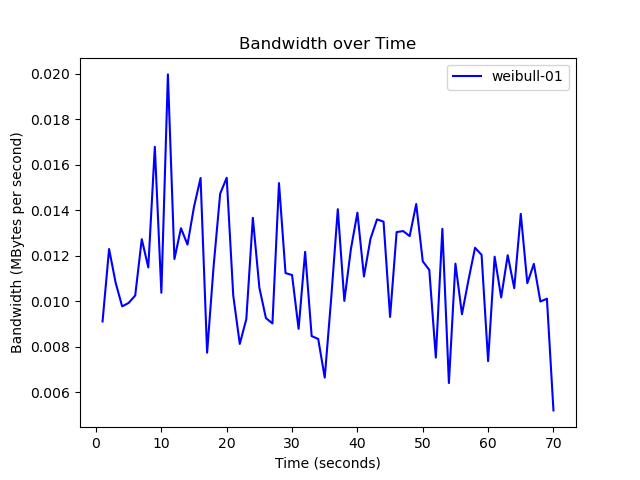
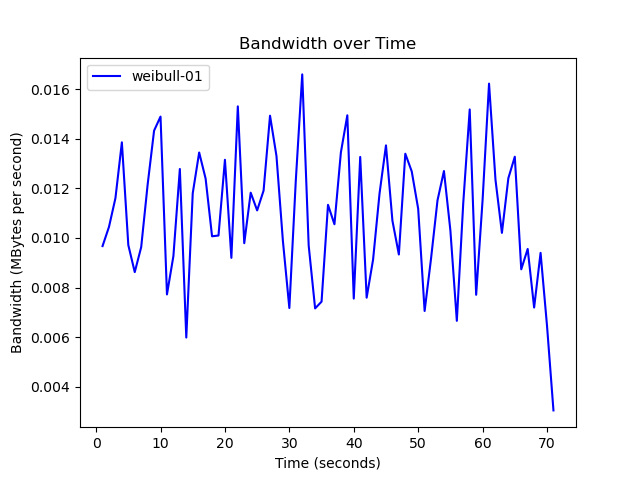
plots

diff --git a/Sources/trace-plot/Plotter.py b/Sources/trace-plot/Plotter.py
@@ -10,7 +10,7 @@ from Utils import Utils
 class Plotter:
 
     @staticmethod
-    def plot_interarrival_cdf(plot_data_list, out_dir, nickname=""):
+    def plot_inter_arrival_cdf(plot_data_list, out_dir, nickname=""):
         Utils.mkdir(out_dir)
         plt.clf()
 
@@ -25,11 +25,12 @@ class Plotter:
             # plot the CDF
             plt.plot(sorted_inter_arrival_times, ecdf, label=item.name, color=item.color)
 
+        plt.legend()
+        plt.grid(True)
         plt.title('Empirical CDF of Inter-Arrival Times')
         plt.xlabel('Inter-Arrival Time (seconds)')
         plt.ylabel('Cumulative Probability')
-        plt.legend()
-        plot_file = os.path.join(out_dir, f"InterArrivalCDF{nickname}.png")
+        plot_file = os.path.join(out_dir, f"InterArrivalCDF_{nickname}.png")
         plt.savefig(plot_file)
 
     @staticmethod
@@ -47,6 +48,7 @@ class Plotter:
             plt.plot(edges[:-1], hist, color=item.color, label=item.name)
 
         plt.legend()
+        plt.grid(True)
         plt.title('Inter-Arrival Time Distribution')
         plt.xlabel('Inter-Arrival Time (seconds)')
         plt.ylabel('Frequency')
@@ -73,11 +75,12 @@ class Plotter:
             plt.plot(time_slices, bandwidth/1e6, label=item.name, color=item.color)
 
         plt.legend()
+        plt.grid(True)
         title = 'Bandwidth over Time'
         plt.title(title)
         plt.xlabel('Time (seconds)')
         plt.ylabel('Bandwidth (MBytes per second)')
-        plot_file = os.path.join(out_dir, f"BandwidthMbps{nickname}.png")
+        plot_file = os.path.join(out_dir, f"BandwidthMbps_{nickname}.png")
         plt.savefig(plot_file)
 
     @staticmethod
@@ -98,15 +101,16 @@ class Plotter:
             plt.plot(time_slices, pps, label=item.name, color=item.color)
 
         plt.legend()
+        plt.grid(True)
         title = 'Packet Per Second'
         plt.title(title)
         plt.xlabel('Time (seconds)')
         plt.ylabel('Packet Per Second')
-        plot_file = os.path.join(out_dir, f"Pps{nickname}.png")
+        plot_file = os.path.join(out_dir, f"Pps_{nickname}.png")
         plt.savefig(plot_file)
 
     @staticmethod
-    def plot_wavelet_multiresolution_energy(plot_data_list, out_dir, number_of_scales=15):
+    def plot_wavelet_multiresolution_energy(plot_data_list, out_dir, number_of_scales=15, nickname=""):
         print("Practical Introduction to Multiresolution Analysis: ",
               "https://www.mathworks.com/help/wavelet/ug/practical-introduction-to-multiresolution-analysis.html")
         Utils.mkdir(out_dir)
@@ -128,13 +132,95 @@ class Plotter:
             # plot data
             plt.plot(scales, energy_values, marker='o', label=item.name, color=item.color)
 
+        plt.legend()
+        plt.grid(True)
         plt.xlabel('j = log2(time_scale) + 1, time_scale (ms)')
         plt.ylabel('log2(Energy(j))')
         plt.title('Wavelet Multiresolution Energy Analysis')
-        plt.grid(True)
-        plot_file = os.path.join(out_dir, "WaveletMultiresolutionEnergyAnalysis.png")
+        plot_file = os.path.join(out_dir, f"WaveletMultiresolutionEnergyAnalysis_{nickname}.png")
         plt.savefig(plot_file)
 
 
+    @staticmethod
+    def plot_flow_cdf(plot_data_list, out_dir, nickname=""):
+        Utils.mkdir(out_dir)
+        plt.clf()
 
+        for item in plot_data_list:
+
+            data = item.load(["arrival-times", "flowID"])
+
+            arrival_times = data["arrival-times"]
+            flow_ids = data["flowID"]
+
+            #  returns an array with the same size but with the greatest value so far for each position.
+            #  out[i] = max(in[i], in(i-1), ..., in(0))
+            cumulative_flows = np.maximum.accumulate(flow_ids)
+
+            plt.plot(arrival_times, cumulative_flows, label=item.name, color=item.color)
+
+        plt.legend()
+        plt.grid(True)
+        plt.xlabel("Time")
+        plt.ylabel("Cumulative Flow Count")
+        plt.title("Flow Cumulative Distribution")
+        plot_file = os.path.join(out_dir, f"FlowCumulativeDistribution_{nickname}.png")
+        plt.savefig(plot_file)
+
+    @staticmethod
+    def plot_bytes_cdf(plot_data_list, out_dir, nickname=""):
+        Utils.mkdir(out_dir)
+        plt.clf()
+
+        for item in plot_data_list:
+
+            data = item.load(["arrival-times", "pktSize"])
+
+            arrival_times = data["arrival-times"]
+            pkt_sizes = data["pktSize"]
+
+            # accumulate the packet sizes
+            #  out[i] = in[i] + in(i-1) +  ... + in(0))
+            accumulated_pkt_sizes = np.maximum.accumulate(pkt_sizes)
+
+            plt.plot(arrival_times, accumulated_pkt_sizes, label=item.name, color=item.color)
+
+        plt.legend()
+        plt.grid(True)
+        plt.xlabel("Time")
+        plt.ylabel("Cumulative Bytes Count")
+        plt.title("Bytes Cumulative Distribution")
+        plot_file = os.path.join(out_dir, f"BytesCumulativeDistribution_{nickname}.png")
+        plt.savefig(plot_file)
+
+    @staticmethod
+    def plot_wavelet_power_spectrum(plot_data_list, out_dir, nickname=""):
+        Utils.mkdir(out_dir)
+        plt.clf()
+        plt.figure(figsize=(10, 6))
+
+        wavelet = 'morl'
+        for item in plot_data_list:
+            data = item.load(["arrival-times", "pktSize"])
+
+            arrival_times = data["arrival-times"]
+            pkt_sizes = data["pktSize"]
+
+            coeffs, freqs = pywt.cwt(pkt_sizes, np.arange(1, len(pkt_sizes) + 1), wavelet)
+            power = (np.abs(coeffs) ** 2) / np.mean(np.abs(coeffs) ** 2)
+
+            time_grid, freq_grid = np.meshgrid(arrival_times, freqs)
+
+            plt.ylim(freqs[0], freqs[-1])
+            plt.gca().set_aspect('auto')
+            plt.pcolormesh(time_grid, freq_grid, power, shading='auto', cmap='jet', alpha=0.7, label=item.name)
+
+        plt.legend()
+        # plt.grid(True)
+        plt.colorbar(label='Power')
+        plt.xlabel('Time')
+        plt.ylabel('Frequency')
+        plt.title('Wavelet Power Spectrum')
+        plot_file = os.path.join(out_dir, f"WaveletPowerSpectrum_{nickname}.png")
+        plt.savefig(plot_file)
 

diff --git a/Sources/trace-plot/Database/RandomData.py b/Sources/trace-plot/Database/RandomData.py
@@ -1,6 +1,7 @@
 import numpy as np
 import math
 import json
+import random
 from Utils import Utils
 from scipy.stats import pareto
 
@@ -83,7 +84,8 @@ class RandomData:
         self.np_trace_id = np.ones(self.n_packets)
 
         # flow ID
-        self.np_flow_id = RandomData.sample_uniform(n=self.n_packets, min_val=1, max_val=self.n_flows)
+        # self.np_flow_id = RandomData.sample_uniform(n=self.n_packets, min_val=1, max_val=self.n_flows)
+        self.np_flow_id = RandomData.sample_flow_ids(self.n_packets)
 
     def load(self, labels_array):
         ret_dic = {}
@@ -131,7 +133,7 @@ class RandomData:
     @staticmethod
     def sample_pareto(n, mean):
         # Estimate shape parameter
-        b = mean / (mean - 1)
+        b = abs(mean / (mean - 1))
         # Generate samples from Pareto distribution
         samples = pareto.rvs(b, size=n)
         return samples
@@ -143,7 +145,7 @@ class RandomData:
     @staticmethod
     def sample_mod_normal_fix(n):
         mean = 0
-        std = 0.4
+        std = 0.1
         samples = np.abs(np.random.normal(mean, std, n))
         return samples
 
@@ -159,7 +161,16 @@ class RandomData:
 
     @staticmethod
     def sample_pareto_fix(n):
-        return RandomData.sample_pareto(n, 0.3)
+        return RandomData.sample_pareto(n, 1.01)
+
+    @staticmethod
+    def sample_flow_ids(n_values):
+        flow_ids = [1]  # Start with 1
+        for _ in range(n_values - 1):
+            prev_id = flow_ids[-1]
+            next_id = random.choice(list(range(1, prev_id + 1)) + [prev_id + 1])
+            flow_ids.append(next_id)
+        return flow_ids
 
     @staticmethod
     def _3spikes_arrival_times_and_pkt_sizes(num_packets=30, seed=42):

diff --git a/Sources/trace-plot/test.py b/Sources/trace-plot/test.py
@@ -6,7 +6,7 @@ from Plotter import Plotter
 
 we1_data = RandomData(database_file="weibull", name="weibull-01", color="blue")
 we2_data = RandomData(database_file="exponential", name="exponential-01", color="red")
-we3_data = RandomData(database_file="pareto", name="pareto-01", color="purple")
+we3_data = RandomData(database_file="normal", name="normal-01", color="purple")
 
 cfg_str1 = '{"seed": 42, "n_packets": 80, "n_flows": 5}'
 cfg_str2 = '{"seed": 58943, "n_packets": 130, "n_flows": 5}'
@@ -15,12 +15,19 @@ sp2_data = RandomData(database_file="3spikes", name="3spike-01", color="red", co
 
 out_dir = os.path.join("plots/test01")
 
-plot_list = [we1_data, we2_data, we3_data]
-Plotter.plot_interarrival_cdf(plot_data_list=plot_list, out_dir=out_dir)
+#plot_list = [we1_data, we2_data, we3_data]
+plot_list = [we1_data]
+
+Plotter.plot_inter_arrival_cdf(plot_data_list=plot_list, out_dir=out_dir)
 Plotter.plot_inter_arrival_time_distribution(plot_data_list=plot_list, out_dir=out_dir)
+Plotter.plot_bytes_cdf(plot_data_list=plot_list, out_dir=out_dir)
+Plotter.plot_flow_cdf(plot_data_list=plot_list, out_dir=out_dir)
 Plotter.plot_bandwidth_mbps(plot_data_list=[we1_data], out_dir=out_dir)
+Plotter.plot_wavelet_power_spectrum(plot_data_list=plot_list, out_dir=out_dir, nickname="weibull")
 
 Plotter.plot_wavelet_multiresolution_energy(plot_data_list=[sp1_data, sp2_data], out_dir=out_dir)
+Plotter.plot_wavelet_power_spectrum(plot_data_list=[sp1_data, sp2_data], out_dir=out_dir, nickname="3spike")
+
 Plotter.plot_bandwidth_mbps(plot_data_list=[sp1_data], out_dir=out_dir, nickname="data03")
 Plotter.plot_pps(plot_data_list=[sp1_data], out_dir=out_dir, nickname="data03")
 
